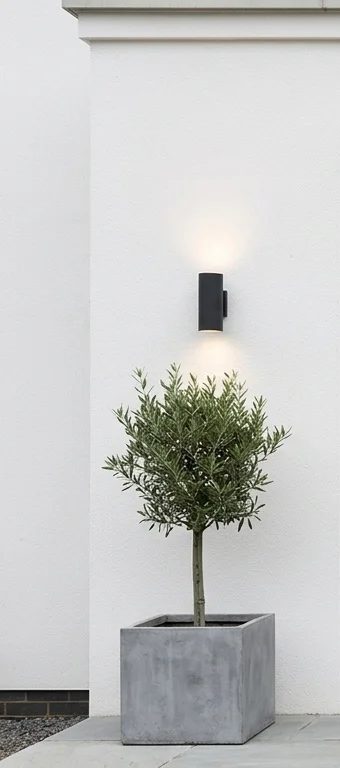
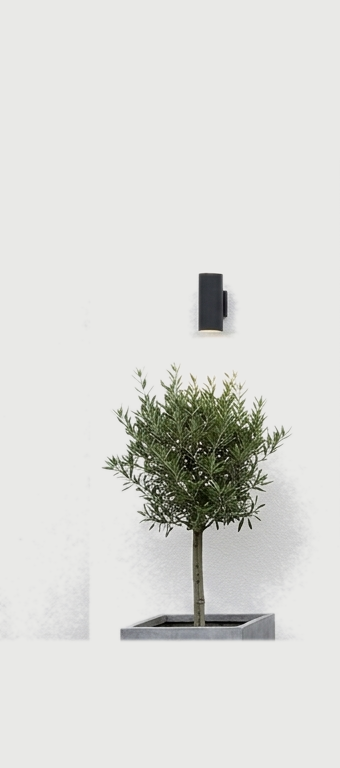
Wall scene: flatten the 22 wall to a uniform tone -> seamless slide
Process the source wall so its uneven lamp-lit plaster becomes one flat tone (brightness
flatten, cornice erased), keeping lamps/plants/pots/opening. Panels are now lossless so their
white matches the CSS fill exactly -> no 'image on image' seam, no grey patch above the door.

diff --git a/src/components/Main/WallScene.tsx b/src/components/Main/WallScene.tsx
@@ -38,7 +38,7 @@ const DOOR_BOTTOM_PCT = (SCENE_H - 680) / SCENE_H * 100; // threshold → 11.46%
 const LEFT_W_PCT = 340 / SCENE_W * 100; // 24.15%
 const RIGHT_W_PCT = 333 / SCENE_W * 100; // 23.65%
 const FLOOR_TOP_PCT = 660 / SCENE_H * 100; // real paving strip starts here → 85.94%
-const WALL_WHITE = "#E7E7E5"; // matches the lit plaster near the opening (stopgap for the 22 wall)
+const WALL_WHITE = "#E9E9E7"; // EXACTLY the flattened-wall tone so panel edges are seamless
 
 // NOTE: `interior`/`doorType` are accepted (door face flips via the render) but the slide engine
 // currently uses one decomposed wall for every family; dedicated interior pieces slot in later.